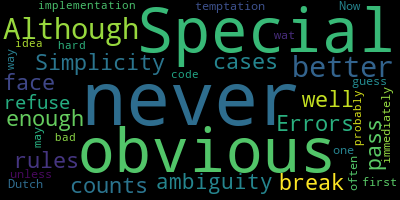
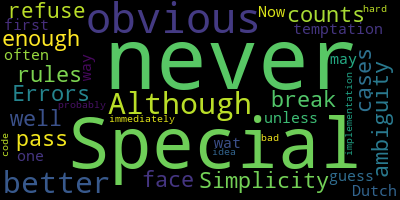
WordCloud features successfully added

diff --git a/flaskr/templates/reports/quickReport.html b/flaskr/templates/reports/quickReport.html
@@ -43,9 +43,10 @@ body {font-family: "Lato", sans-serif}
             <pre>{{ file2 | safe }}</pre>
         </div>
 </div>
-
+<br>
+<br>
 <div style="display: flex;justify-content: center;align-items: center;">
-    <img src={{ image }} alt={{ image }} style="width:150px;height:150px;">
+    <img src="../../static/images/WordCloud/wordcloud.png" alt="WordCloud.png" style="width:350px;height:180px;border: 5px solid purple;">
 </div>
 
 

diff --git a/flaskr/__init__.py b/flaskr/__init__.py
@@ -271,8 +271,12 @@ def create_app(test_config=None):
         print(f'File 1: {file1}')
         print(f'File 2: {file2}')
         wordcloud = WordCloud().generate(file1)
-        wordcloud.to_file(f"wordcloud.png")
-        return render_template("reports/quickReport.html", file1=highlights1, file2=highlights2, image="../../../wordcloud.png")
+        # wordcloud.to_file("wordcloud.png")
+        # save wordcloud image to the static/Wordcloud folder
+        imgPath = f"{os.getenv('UPLOAD_IMG')}"
+        print(imgPath)
+        wordcloud.to_file(f"{imgPath}SimiLabs_2022/flaskr/static/images/WordCloud/wordcloud.png")   
+        return render_template("reports/quickReport.html", file1=highlights1, file2=highlights2)
 
     def highlight(s, regexes):
         """Highlight all instances of regexes in s."""
